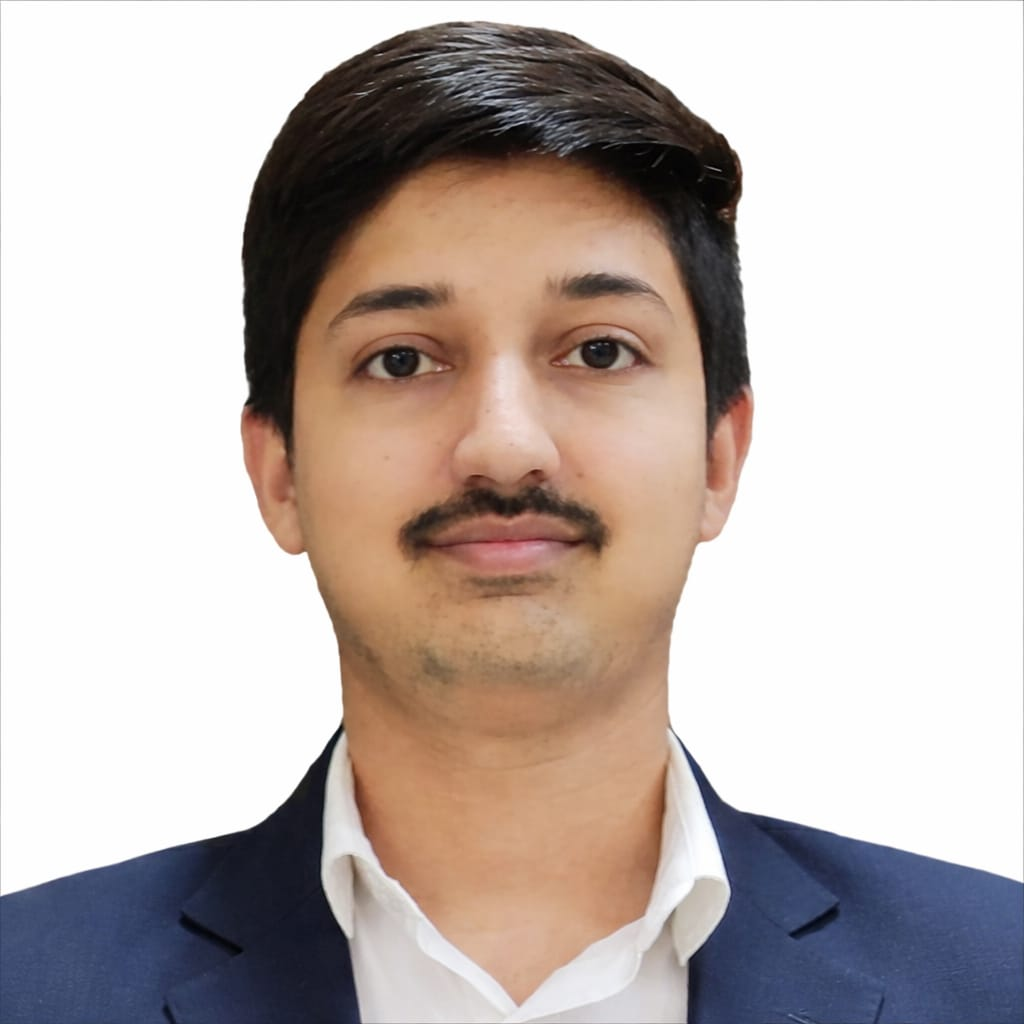
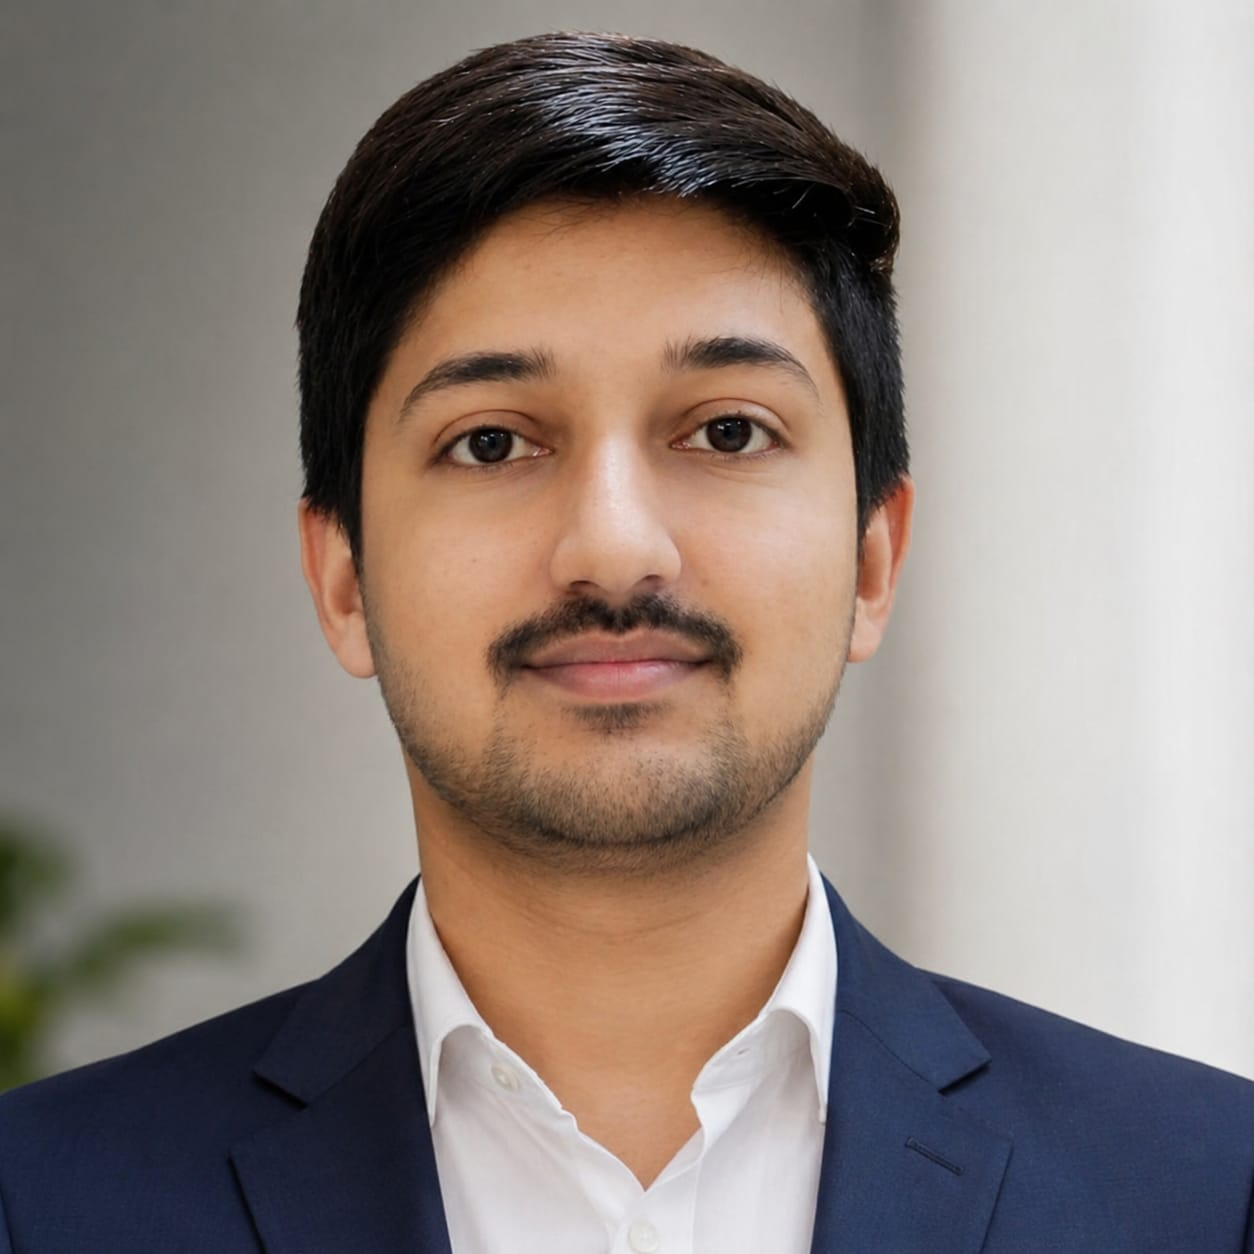
photo changed

diff --git a/src/components/Hero/Hero.jsx b/src/components/Hero/Hero.jsx
@@ -71,7 +71,7 @@ const Hero = ({ darkMode }) => {
         {/* Right Content (Image) */}
         <div className="flex justify-center flex-1">
           <motion.img
-            src="/ChatGPT Image Apr 30, 2025, 11_21_25 PM.png"
+            src="/Users/kalashmantri/Downloads/all projects/Portfolio-main/public/kalash photo.jpeg"
             alt="Profile"
             className="w-48 sm:w-56 md:w-64 lg:w-80 rounded-full border-4 shadow-lg 
             transition-all duration-300 
